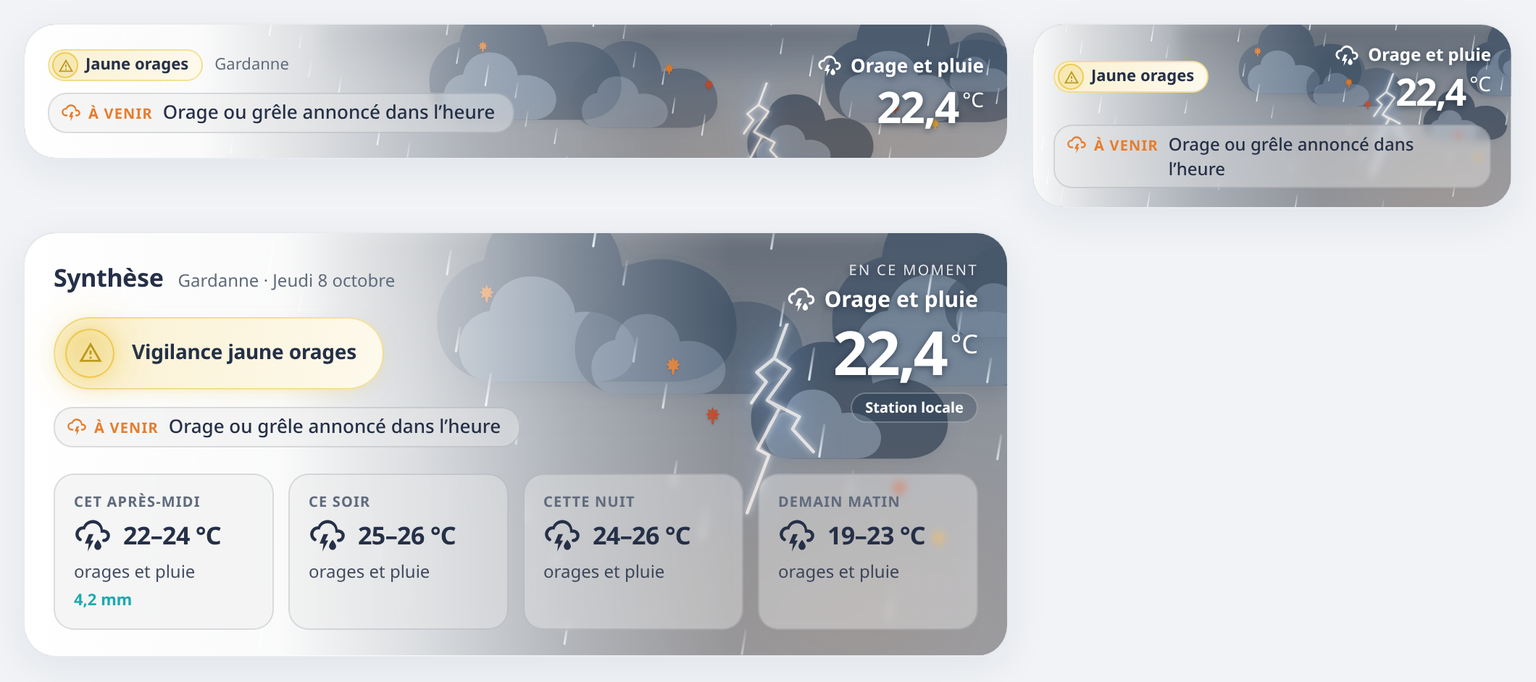
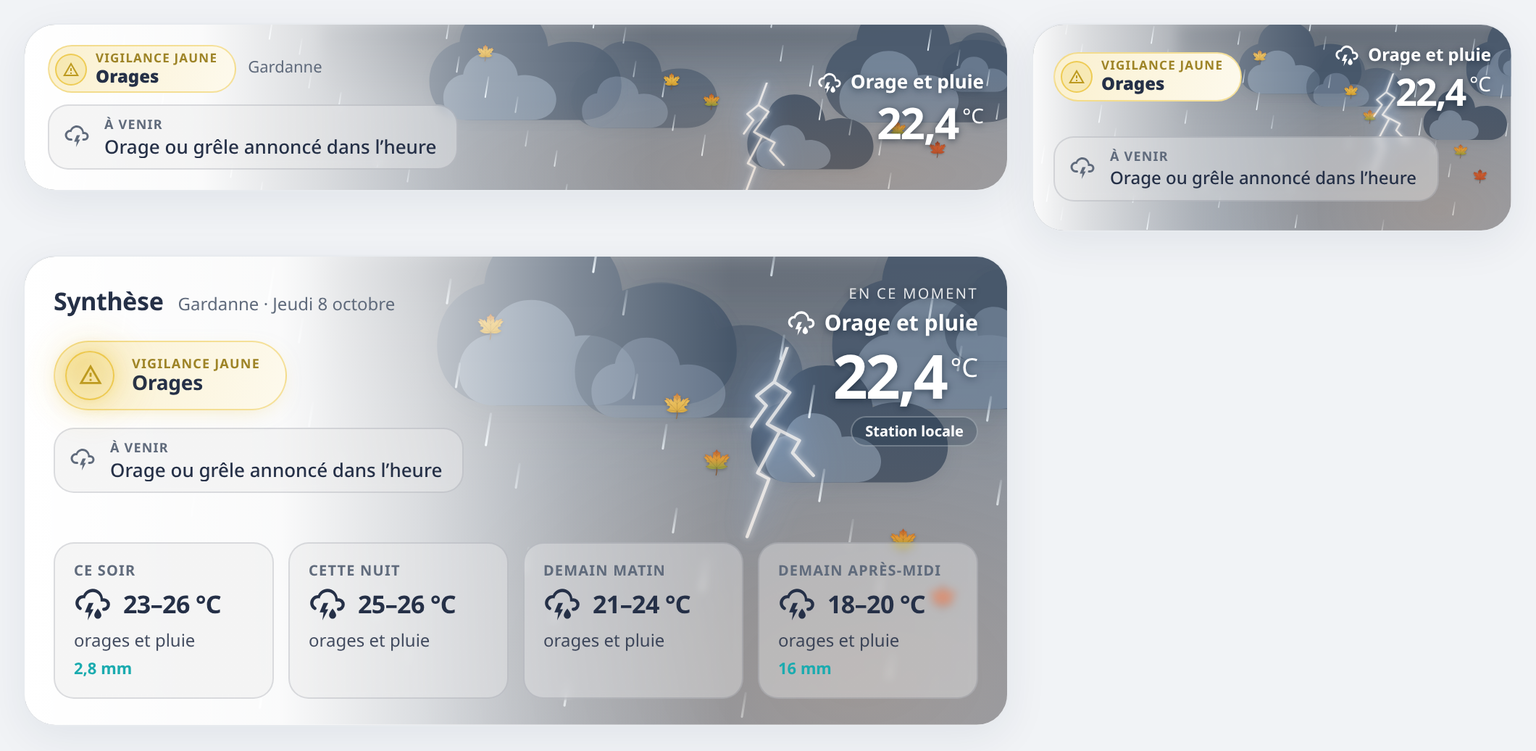
feat(bubbles): label above the sentence in every brief bubble; two-line vigilance; v1.16.0 (not published)
- Brief bubbles (full card, intermediate, tile): small label above, sentence below, icon across both lines; same glass in all formats.
- Vigilance: level in small capitals above, phenomena below (vigilanceParts), in the banner pill and the tile bubble.
- Stable heights: two lines reserved in the half tile and the intermediate, one line on the full-width tile.
- Demo: bubble proposal menu removed; README screenshot refreshed.

diff --git a/src/compact-view.ts b/src/compact-view.ts
@@ -1,6 +1,6 @@
 import { css, html, LitElement, nothing, type TemplateResult } from 'lit';
 import { customElement, property, state } from 'lit/decorators.js';
-import { bulletinTiles } from './banner-layouts';
+import { bulletinTiles, vigilanceText } from './banner-layouts';
 import type { Bulletin } from './bulletin';
 import type { CurrentWeather } from './current-weather';
 import { tickerPoints, vigilanceBadge, type TickerPoint } from './compact-points';
@@ -38,17 +38,19 @@ export class NiakBriefTicker extends LitElement {
   static styles = css`
     :host { display:block; min-width:0; }
     /* Glass bubble, like the four bulletin tiles: icon, group label, sentence. Grey label and icon, as on the full card. */
-    .chip { display:inline-flex; align-items:baseline; gap:7px; max-width:100%; box-sizing:border-box; margin:0; padding:4px 12px 4px 8px; border-radius:13px; /* a pill on one line, a rounded box on two */
-      font-size:13px; line-height:17px; font-weight:500; color:var(--primary-text-color);
+    /* Label above the sentence: the sentence gets the whole width; the icon spans both lines. */
+    .chip { display:inline-grid; grid-template-columns:auto minmax(0,1fr); column-gap:10px; row-gap:1px; align-items:center; max-width:100%; box-sizing:border-box; margin:0;
+      padding:6px 14px 7px 10px; border-radius:14px; font-size:13px; line-height:16px; font-weight:500; color:var(--primary-text-color);
       background:linear-gradient(rgba(128,128,128,.07),rgba(128,128,128,.07)),color-mix(in srgb,var(--card-background-color,#fff) 38%,transparent);
       border:1px solid color-mix(in srgb,var(--primary-text-color,#253047) 13%,transparent); backdrop-filter:blur(3px) saturate(1.15);
       transition:opacity .35s ease, transform .35s ease; }
     .chip.out { opacity:0; transform:translateY(-5px); }
-    /* On the first line, next to the label, even when the sentence wraps. */
-    ha-icon { --mdc-icon-size:14px; display:flex; line-height:0; flex:none; align-self:flex-start; margin:1.5px -2px 0 0; color:var(--secondary-text-color); }
-    .kick { flex:none; font-size:10px; font-weight:700; letter-spacing:.6px; text-transform:uppercase; white-space:nowrap; color:var(--secondary-text-color); }
-    .msg { min-width:0; display:-webkit-box; -webkit-line-clamp:2; -webkit-box-orient:vertical; overflow:hidden; }
+    ha-icon { --mdc-icon-size:18px; display:flex; line-height:0; grid-row:1 / 3; color:var(--secondary-text-color); }
+    .kick { grid-column:2; font-size:9px; line-height:13px; font-weight:700; letter-spacing:.6px; text-transform:uppercase; white-space:nowrap; color:var(--secondary-text-color); }
+    .msg { grid-column:2; min-width:0; display:-webkit-box; -webkit-line-clamp:2; -webkit-box-orient:vertical; overflow:hidden; }
     .sr { position:absolute; width:1px; height:1px; overflow:hidden; clip:rect(0 0 0 0); white-space:nowrap; margin:0; padding:0; }
+    /* Full-width tile: one line, so the tile keeps its height; the half-width tile reserves two. */
+    @container (min-width:481px) { :host(.nw-c-ticker--tile) .msg { -webkit-line-clamp:1; } }
     @container (max-width:360px) {
       .chip { font-size:12px; }
     }
@@ -70,15 +72,15 @@ export function renderCompact(p: CompactParts): TemplateResult {
     <span class="nw-c-cond"><ha-icon icon=${p.now.icon}></ha-icon>${p.now.label}</span>
     ${degrees === undefined ? html`<span class="nw-c-missing">Température indisponible</span>` : html`<span class="nw-c-temp">${degrees}<small>°C</small></span>`}
     ${p.format === 'intermediate' ? html`<span class="nw-c-source">${p.now.temperatureSource}</span>` : nothing}</div>`;
-  const ticker = points.length ? html`<niak-brief-ticker class="nw-c-ticker" .points=${points}></niak-brief-ticker>` : nothing;
+  const ticker = points.length ? html`<niak-brief-ticker class=${`nw-c-ticker nw-c-ticker--${p.format}`} .points=${points}></niak-brief-ticker>` : nothing;
   const level = vigilance?.level ?? 1;
   const body = p.format === 'tile' ? html`
-      <div class="nw-c-meta">${vigilance ? html`<span class=${`nw-c-vig nw-c-vig--level${level}`} title=${vigilance.label}><i><ha-icon icon="mdi:alert-outline"></ha-icon></i><span class="nw-c-vig-text">${vigilance.label}</span></span>` : nothing}
+      <div class="nw-c-meta">${vigilance ? html`<span class=${`nw-c-vig nw-c-vig--level${level}`} title=${vigilance.label}><i><ha-icon icon="mdi:alert-outline"></ha-icon></i>${vigilanceText(vigilance.label)}</span>` : nothing}
         ${p.location ? html`<span class="nw-c-place">${p.location}</span>` : nothing}</div>
       ${ticker}${now}` : html`
       <header class="nw-c-head"><h2>Synthèse</h2><span>${[p.location, p.dateLabel].filter(Boolean).join(' · ')}</span></header>
       <div class="nw-c-main">${vigilance ? html`<div class=${`nw-b-vigil nw-b-vigil--level${level}`} role="status">
-          <span class="nw-b-vigil-mark" aria-hidden="true"><i class="nw-b-vigil-halo"></i><ha-icon icon="mdi:alert-outline"></ha-icon></span><strong>${vigilance.label}</strong></div>` : nothing}
+          <span class="nw-b-vigil-mark" aria-hidden="true"><i class="nw-b-vigil-halo"></i><ha-icon icon="mdi:alert-outline"></ha-icon></span>${vigilanceText(vigilance.label)}</div>` : nothing}
         ${ticker}</div>
       ${now}${p.bulletin ? bulletinTiles(p.bulletin) : nothing}`;
   return html`<div class=${`nw-compact nw-compact--${p.format}${dark ? ' nw-compact--dark-sky' : ''}${points.length ? '' : ' nw-compact--quiet'}`}
@@ -116,7 +118,8 @@ export const compactStyles = css`
   .nw-c-main .nw-b-vigil { margin:0; }
   .nw-compact--intermediate .nw-c-now { grid-area:now; align-self:start; }
   .nw-compact--intermediate .nw-b-tiles { grid-area:tiles; }
-  .nw-compact--intermediate .nw-c-ticker { max-width:100%; }
+  /* Room for a two-line sentence: the day tiles below never jump when the bubble changes. */
+  .nw-compact--intermediate .nw-c-ticker { max-width:100%; min-height:61px; }
   @container (max-width:520px) {
     .nw-compact--intermediate { --k:.62; grid-template-columns:minmax(0,1fr); grid-template-areas:"head" "now" "main" "tiles"; min-height:0; }
     .nw-compact--intermediate .nw-c-now { min-height:118px; justify-content:center; margin-top:6px; }
@@ -137,20 +140,20 @@ export const compactStyles = css`
   .nw-compact--quiet .nw-c-meta { flex-direction:column; align-items:flex-start; align-self:start; gap:6px; }
   .nw-compact--quiet .nw-c-place { order:-1; }
   /* Vigilance: a small bubble in the official colour, plainer than the full card's pill. */
-  .nw-c-vig { --al:232,184,20; flex:0 1 auto; min-width:0; max-width:100%; display:inline-flex; align-items:center; gap:5px; padding:1px 9px 1px 2px; border-radius:999px; font-size:11px; font-weight:650;
+  .nw-c-vig { --al:232,184,20; flex:0 1 auto; min-width:0; max-width:100%; display:inline-flex; align-items:center; gap:6px; padding:3px 12px 3px 4px; border-radius:999px; font-size:12px; font-weight:650;
     background:linear-gradient(100deg,color-mix(in srgb,var(--card-background-color,#fff) 80%,rgb(var(--al)) 20%),color-mix(in srgb,var(--card-background-color,#fff) 92%,rgb(var(--al)) 8%));
     border:1px solid rgba(var(--al),.38); backdrop-filter:blur(8px); }
   .nw-c-vig--level2 { --al:238,124,30; } .nw-c-vig--level3 { --al:214,52,58; }
-  .nw-c-vig i { width:18px; height:18px; border-radius:50%; display:flex; align-items:center; justify-content:center; flex:none; background:rgba(var(--al),.16); border:1.5px solid rgba(var(--al),.6);
+  .nw-c-vig i { width:22px; height:22px; border-radius:50%; display:flex; align-items:center; justify-content:center; flex:none; background:rgba(var(--al),.16); border:1.5px solid rgba(var(--al),.6);
     color:color-mix(in srgb,rgb(var(--al)) 78%,var(--primary-text-color) 22%); box-sizing:border-box; }
-  .nw-c-vig ha-icon { --mdc-icon-size:11px; }
-  .nw-c-vig i { flex:none; } .nw-c-vig-text { min-width:0; white-space:nowrap; overflow:hidden; text-overflow:ellipsis; }
+  .nw-c-vig ha-icon { --mdc-icon-size:12px; }
+  .nw-c-vig i { flex:none; } .nw-c-vig .nw-vigil-text small { font-size:8.5px; line-height:11px; }
   .nw-c-kicker { white-space:nowrap; }
   /* HA's ha-icon is inline: without this it takes a line height and sits high in its circle. */
   .nw-compact ha-icon { display:flex; line-height:0; }
   /* Phones and half width: the brief moves under the temperature, on the full width. */
   @container (max-width:480px) {
-    .nw-compact--tile { --k:.42; --nw-orb-x:calc(100% - 300px); --v1:0%; --v2:12%; --v3:34%; --v4:60%; grid-template-areas:"meta now" "txt txt"; grid-template-rows:auto 46px;
+    .nw-compact--tile { --k:.42; --nw-orb-x:calc(100% - 300px); --v1:0%; --v2:12%; --v3:34%; --v4:60%; grid-template-areas:"meta now" "txt txt"; grid-template-rows:auto 62px;
       column-gap:10px; padding:12px 14px; }
     .nw-compact:not(.nw-compact--quiet) .nw-c-meta { align-self:center; } .nw-compact:not(.nw-compact--quiet) .nw-c-meta:has(.nw-c-vig) .nw-c-place { display:none; }
     .nw-compact--tile .nw-c-ticker { align-self:center; }

diff --git a/src/banner-layouts.ts b/src/banner-layouts.ts
@@ -1,5 +1,6 @@
 import { css, html, nothing, type TemplateResult } from 'lit';
 import type { Bulletin } from './bulletin';
+import { vigilanceParts } from './compact-points';
 import type { BriefSignal, WeatherBrief } from './weather-brief';
 
 export interface BannerParts {
@@ -24,11 +25,17 @@ export function renderBanner(p: BannerParts): TemplateResult {
         : !p.attention && p.headline ? html`<h3 class="nw-b-headline">${p.headline}</h3>` : nothing}
       ${p.attention ? html`<div class=${`nw-b-vigil nw-b-vigil--level${level}`} role="status">
         <span class="nw-b-vigil-mark" aria-hidden="true"><i class="nw-b-vigil-halo"></i><ha-icon icon=${p.icon}></ha-icon></span>
-        <strong>${p.headline}</strong></div>` : nothing}
+        ${vigilanceText(p.headline ?? '')}</div>` : nothing}
       ${chips(p.secondary)}
     </div>${p.current}
     ${p.bulletin ? bulletinTiles(p.bulletin) : nothing}
   </section>`;
+}
+
+/** Level in small capitals above the phenomena, like the brief bubbles' label. Shared with the small formats. */
+export function vigilanceText(text: string): TemplateResult {
+  const parts = vigilanceParts(text);
+  return html`<span class="nw-vigil-text">${parts.level ? html`<small>${parts.level}</small>` : nothing}<strong>${parts.detail}</strong></span>`;
 }
 
 /** The four parts of the day, see-through over the sky. Shared with the intermediate format. */
@@ -47,11 +54,13 @@ export const bannerStyles = css`
   .nw-b-date { font-size:11px; color:var(--secondary-text-color); }
   .nw-b-date::first-letter { text-transform:uppercase; }
   .nw-b-chips { list-style:none; margin:4px 0 0; padding:0; display:flex; flex-wrap:wrap; gap:8px; }
-  /* Label and sentence share a baseline; the icon sits on the first line, even when the sentence wraps. */
-  .nw-b-chip { display:flex; align-items:baseline; gap:7px; padding:5px 11px 5px 8px; border-radius:14px; font-size:12px; line-height:16px;
-    background:color-mix(in srgb,var(--card-background-color,#fff) 78%,transparent); border:1px solid var(--divider-color,rgba(150,150,150,.25)); backdrop-filter:blur(6px); }
-  .nw-b-chip ha-icon { --mdc-icon-size:15px; color:var(--secondary-text-color); flex:none; display:flex; line-height:0; align-self:flex-start; margin-top:.5px; }
-  .nw-b-chip b { flex:none; white-space:nowrap; line-height:16px; font-weight:650; font-size:10px; letter-spacing:.4px; text-transform:uppercase; color:var(--secondary-text-color); }
+  /* Label above the sentence, icon across both lines: the same glass bubble as the tile and the intermediate. */
+  .nw-b-chip { display:grid; grid-template-columns:auto minmax(0,1fr); column-gap:10px; row-gap:1px; align-items:center; padding:6px 14px 7px 10px; border-radius:14px; font-size:12px; line-height:16px;
+    background:linear-gradient(rgba(128,128,128,.07),rgba(128,128,128,.07)),color-mix(in srgb,var(--card-background-color,#fff) 38%,transparent);
+    border:1px solid color-mix(in srgb,var(--primary-text-color,#253047) 13%,transparent); backdrop-filter:blur(3px) saturate(1.15); }
+  .nw-b-chip ha-icon { --mdc-icon-size:18px; color:var(--secondary-text-color); display:flex; line-height:0; grid-row:1 / 3; }
+  .nw-b-chip b { grid-column:2; white-space:nowrap; line-height:13px; font-weight:700; font-size:9px; letter-spacing:.6px; text-transform:uppercase; color:var(--secondary-text-color); }
+  .nw-b-chip span { grid-column:2; min-width:0; }
   .nw-b-chip--official { border-color:rgba(230,125,45,.55); } .nw-b-chip--official ha-icon { color:rgb(230,125,45); }
   .nw-b-tiles { grid-area:tiles; list-style:none; margin:18px 0 0; padding:0; display:grid; grid-template-columns:repeat(4,minmax(0,1fr)); gap:10px; position:relative; z-index:1; }
   .nw-b-tiles li { display:grid; grid-template-columns:auto minmax(0,1fr); align-items:center; align-content:start; column-gap:8px; row-gap:3px; padding:11px 13px; border-radius:14px;
@@ -69,11 +78,14 @@ export const bannerStyles = css`
   .nw-synthesis.nw-banner { grid-template-areas:"head aside" "main aside" "tiles tiles"; grid-template-rows:auto 1fr auto; }
   .nw-b-headline { margin:0; font-size:15px; font-weight:600; letter-spacing:-.1px; line-height:1.4; max-width:56ch; }
   /* Vigilance: a glass pill in the official colour, its icon glowing with the same halo as the alert emblem. */
-  .nw-b-vigil { --al:232,184,20; position:relative; z-index:2; display:flex; align-items:center; gap:12px; margin:2px 0 0; padding:7px 18px 7px 7px; border-radius:999px;
+  .nw-b-vigil { --al:232,184,20; position:relative; z-index:2; display:flex; align-items:center; gap:12px; margin:2px 0 0; padding:6px 18px 6px 7px; border-radius:999px;
     background:linear-gradient(100deg,color-mix(in srgb,var(--card-background-color,#fff) 80%,rgb(var(--al)) 20%),color-mix(in srgb,var(--card-background-color,#fff) 92%,rgb(var(--al)) 8%));
     border:1px solid rgba(var(--al),.38); box-shadow:0 4px 18px -10px rgba(var(--al),.5); backdrop-filter:blur(8px); }
   .nw-b-vigil--level2 { --al:238,124,30; } .nw-b-vigil--level3 { --al:214,52,58; }
   .nw-b-vigil strong { font-size:14px; font-weight:650; letter-spacing:-.1px; }
+  .nw-vigil-text { display:flex; flex-direction:column; min-width:0; line-height:1.2; }
+  .nw-vigil-text small { font-size:9px; font-weight:700; letter-spacing:.6px; text-transform:uppercase; line-height:13px; color:color-mix(in srgb,rgb(var(--al)) 62%,var(--primary-text-color) 38%); }
+  .nw-vigil-text strong { white-space:nowrap; overflow:hidden; text-overflow:ellipsis; }
   .nw-b-vigil-mark { position:relative; flex:0 0 32px; height:32px; display:flex; align-items:center; justify-content:center; border-radius:50%;
     color:color-mix(in srgb,rgb(var(--al)) 78%,var(--primary-text-color) 22%); background:radial-gradient(circle at 35% 25%,rgba(var(--al),.24),rgba(var(--al),.08)); border:1.5px solid rgba(var(--al),.6); animation:nwVigilGlow 5.2s ease-in-out infinite; }
   .nw-b-vigil-mark ha-icon { --mdc-icon-size:17px; position:relative; z-index:1; display:flex; line-height:0; /* HA's ha-icon is inline and would sit low */ }

diff --git a/demo/formats.html b/demo/formats.html
@@ -25,7 +25,6 @@
   <label>Moment<select id="phase"><option value="day">Journée</option><option value="twilight">Crépuscule</option><option value="night">Nuit</option></select></label>
   <label>Thème<select id="theme"><option value="light">Clair</option><option value="dark">Sombre</option></select></label>
   <label>Largeur<select id="width"><option value="tablet">Tablette</option><option value="phone">Téléphone (375 px)</option></select></label>
-  <label>Bulles « Maintenant / À venir »<select id="chips"><option value="A">A · actuelles</option><option value="B">B · étiquette en pastille</option><option value="C">C · bulle en deux parties</option><option value="D">D · étiquette au-dessus</option><option value="E">E · point plein / point creux</option><option value="F">F · cadre avec repère à gauche</option></select></label>
   <label class="toggle"><input type="checkbox" id="motion" checked> Animations</label>
 </div>
 
@@ -72,21 +71,6 @@
       card.hass=hass;
     }
   }
-  // Proposals for the brief bubbles, injected into the real card: full card (.nw-b-chip) and rotating bubble (.chip).
-  const flavours={full:{X:'.nw-b-chip',I:'.nw-b-chip ha-icon',K:'.nw-b-chip b',M:'.nw-b-chip span',F:'.nw-b-chip--future',pv:5},tick:{X:'.chip',I:'.chip ha-icon',K:'.kick',M:'.msg',F:'.chip--future',pv:4}};
-  const variants={A:()=>'',
-    B:({K})=>`${K}{background:color-mix(in srgb,var(--primary-text-color) 13%,transparent);color:var(--primary-text-color);padding:1px 7px;border-radius:999px}`,
-    C:({X,I,K,pv})=>`${X}{padding-left:0;overflow:hidden}${I}{position:relative;z-index:1;margin-left:9px}${K}{align-self:stretch;margin:-${pv}px 2px -${pv}px -29px;padding:${pv}px 10px ${pv}px 29px;display:flex;align-items:center;color:var(--primary-text-color);background:color-mix(in srgb,var(--primary-text-color) 10%,transparent);border-right:1px solid color-mix(in srgb,var(--primary-text-color) 14%,transparent)}`,
-    D:({X,I,K,M})=>`${X}{display:inline-grid;grid-template-columns:auto minmax(0,1fr);column-gap:10px;row-gap:1px;align-items:center;padding:6px 14px 7px 10px;border-radius:14px}${I}{grid-row:1/3;align-self:center;margin:0;--mdc-icon-size:18px}${K}{grid-column:2;line-height:13px;font-size:9px}${M}{grid-column:2;line-height:16px}`,
-    E:({I,K,F})=>`${I}{display:none}${K}{color:var(--primary-text-color)}${K}::before{content:'';display:inline-block;width:7px;height:7px;border-radius:50%;margin-right:6px;vertical-align:1px;background:currentColor}${F} ${K.replace('.nw-b-chip ','')}::before{background:transparent;box-shadow:inset 0 0 0 1.5px currentColor}`,
-    F:({X,K,F})=>`${X}{border-radius:8px;border-left:3px solid color-mix(in srgb,var(--primary-text-color) 55%,transparent)}${F}{border-left-color:color-mix(in srgb,var(--primary-text-color) 22%,transparent)}${K}{color:var(--primary-text-color)}`};
-  const sheets=new WeakMap();
-  function applyChips(){
-    const v=variants[$('chips').value];
-    const put=(root,css)=>{if(!root)return;let sh=sheets.get(root);if(!sh){sh=new CSSStyleSheet();sheets.set(root,sh);root.adoptedStyleSheets=[...root.adoptedStyleSheets,sh];}sh.replaceSync(css);};
-    for(const card of cards){const r=card.shadowRoot;if(!r)continue;put(r,v(flavours.full));r.querySelectorAll('niak-brief-ticker').forEach(t=>put(t.shadowRoot,v(flavours.tick)));}
-  }
-  setInterval(applyChips,500);$('chips').addEventListener('change',applyChips);
   for(const id of ['condition','phase','theme','width','motion'])$(id).addEventListener('change',refresh);
   refresh();
 </script>

diff --git a/test/compact-points.test.ts b/test/compact-points.test.ts
@@ -1,5 +1,5 @@
 import { describe, expect, it } from 'vitest';
-import { tickerPoints, vigilanceBadge } from '../src/compact-points';
+import { tickerPoints, vigilanceBadge, vigilanceParts } from '../src/compact-points';
 import type { BriefSignal, WeatherBrief } from '../src/weather-brief';
 const signal = (key: string, group: BriefSignal['group'], severity: BriefSignal['severity'], text = key): BriefSignal => ({key,group,severity,text,explanation:key,icon:'mdi:weather-sunny'});
 const brief = (signals: BriefSignal[]): WeatherBrief => ({signals,title:'',summary:'',label:'',rgb:'',icon:'',available:true,caveats:[]});
@@ -26,5 +26,11 @@ describe('Tile and intermediate brief', () => {
     const badge=vigilanceBadge(brief([signal('official','official',2,'Vigilance orange · orages, vent violent (jaune)')]));
     expect(badge).toMatchObject({level:2,label:'Vigilance orange · orages, vent violent (jaune)'});
     expect(vigilanceBadge(brief([signal('wind','now',2)]))).toBeUndefined();
+  });
+  it('puts the vigilance level above its phenomena, other texts on one line', () => {
+    expect(vigilanceParts('Vigilance jaune · vent violent')).toEqual({level:'Vigilance jaune',detail:'Vent violent'});
+    expect(vigilanceParts('Vigilance orange · orages, vent violent (jaune)')).toEqual({level:'Vigilance orange',detail:'Orages, vent violent (jaune)'});
+    expect(vigilanceParts('Vigilance jaune')).toEqual({detail:'Vigilance jaune'});
+    expect(vigilanceParts('Vent soutenu, rafales à 43,9 km/h')).toEqual({detail:'Vent soutenu, rafales à 43,9 km/h'});
   });
 });

diff --git a/src/compact-points.ts b/src/compact-points.ts
@@ -27,3 +27,10 @@ export function vigilanceBadge(brief?: WeatherBrief): VigilanceBadge | undefined
   if (!s || s.severity === 0) return undefined;
   return { level: s.severity as 1 | 2 | 3, label: s.text, entity: s.entity };
 }
+
+/** "Vigilance jaune · vent violent" → level above ("Vigilance jaune"), phenomena below ("Vent violent"). Other texts stay on one line. */
+export function vigilanceParts(text: string): { level?: string; detail: string } {
+  const [level, ...rest] = text.split(' · ');
+  const detail = rest.join(' · ');
+  return /^Vigilance (jaune|orange|rouge)$/.test(level) && detail ? { level, detail: detail[0].toUpperCase() + detail.slice(1) } : { detail: text };
+}

diff --git a/README.md b/README.md
@@ -20,7 +20,7 @@ Illustration de présentation avec des données d’exemple ; le rendu réel du 
 
 **En pratique :** l’entité météo seule suffit pour afficher la carte et ses prévisions. Ajoutez une station pour suivre les observations chez vous, et Atmo France si vous souhaitez les informations sur l’air et les pollens. La carte indique la source de chaque valeur et distingue toujours une prévision d’une mesure réelle. [Détails des sources et de leurs limites](docs/sources.md).
 
-**Version stable : v1.15.5.** Trois formats : complète, intermédiaire et tuile pour la page d’accueil. [Nouveautés de la version 1.15.0](docs/release-1.15.0.md) · [correctifs 1.15.1](docs/release-1.15.1.md), [1.15.2](docs/release-1.15.2.md), [1.15.3](docs/release-1.15.3.md), [1.15.4](docs/release-1.15.4.md) et [1.15.5](docs/release-1.15.5.md) · [Installation et mise à jour](docs/installation.md).
+**Version stable : v1.16.0.** Des bulles plus lisibles, la vigilance sous le bulletin et des feuilles de platane. [Nouveautés de la version 1.16.0](docs/release-1.16.0.md) · [Trois formats (1.15.0)](docs/release-1.15.0.md) · [Installation et mise à jour](docs/installation.md).
 
 [![Ouvrir Niak Weather dans HACS](https://my.home-assistant.io/badges/hacs_repository.svg)](https://my.home-assistant.io/redirect/hacs_repository/?owner=Niakman13&repository=niak-weather&category=plugin)
 
@@ -106,7 +106,7 @@ L’historique Home Assistant permet de qualifier l’évolution de la pression 
 
 1. Ouvrez le bouton HACS en haut de cette page. Il ouvre le dépôt, sans installer automatiquement la carte.
 2. Si le dépôt n’est pas trouvé, ajoutez `https://github.com/Niakman13/niak-weather` dans **HACS → ⋮ → Dépôts personnalisés**, catégorie **Tableau de bord / Dashboard**. Il s’agit d’un dépôt personnalisé, pas d’un référencement dans le catalogue HACS par défaut.
-3. Téléchargez **Niak Weather v1.15.5**, puis rechargez le navigateur.
+3. Téléchargez **Niak Weather v1.16.0**, puis rechargez le navigateur.
 4. Dans votre tableau de bord, choisissez **Ajouter une carte → Niak Weather** et sélectionnez votre entité météo.
 5. Ajoutez si souhaité les sources **Station météo locale** et **Atmo France**. Utilisez **Remplir automatiquement** dans chaque catégorie, puis vérifiez les propositions avant d’enregistrer. Sans station, les cadres utilisent les attributs du bulletin disponibles, avec une bulle de source ; la pluie prévue reste distinguée de la pluie mesurée.
 
@@ -131,9 +131,9 @@ daily_rain_entity: sensor.station_daily_rain
 
 Ces identifiants sont des **exemples**, pas des noms imposés. Privilégiez vos entités réelles dans l’éditeur. Le [tutoriel d’installation](docs/installation.md) détaille les ressources, les réglages et le dépannage.
 
-## Mettre à jour vers v1.15.5
+## Mettre à jour vers v1.16.0
 
-Dans **HACS → Niak Weather**, utilisez **Mettre à jour** ou **⋮ → Retélécharger** et sélectionnez **v1.15.5**. Il n’est pas nécessaire d’activer les préversions. Rechargez ensuite le navigateur avec **Ctrl+F5** ; sur mobile, videz le cache frontend si l’ancienne version reste affichée.
+Dans **HACS → Niak Weather**, utilisez **Mettre à jour** ou **⋮ → Retélécharger** et sélectionnez **v1.16.0**. Il n’est pas nécessaire d’activer les préversions. Rechargez ensuite le navigateur avec **Ctrl+F5** ; sur mobile, videz le cache frontend si l’ancienne version reste affichée.
 
 Les mises à jour utilisent la même ressource et conservent vos entités. Les anciens modes sont convertis en réglages de sections : les prévisions d’une ancienne configuration compacte restent masquées sauf choix explicite contraire. Vous pouvez enrichir la configuration progressivement, sans recommencer l’installation. [Notes de version](docs/release-1.4.0.md).
 

diff --git a/docs/installation.md b/docs/installation.md
@@ -35,7 +35,7 @@ jour future apparaîtra dans HACS et se fera avec le même bouton de télécharg
 
 ## Synthèse intelligente
 
-La version stable est **v1.15.5**. Consulte les [notes de mise à jour](release-1.15.0.md) : trois formats, dont une tuile et un format intermédiaire pour la page d’accueil. Les réglages déjà enregistrés sont conservés. Une mise à jour de la carte ne nécessite pas de redémarrer Home Assistant.
+La version stable est **v1.16.0**. Consulte les [notes de mise à jour](release-1.16.0.md) : bulles plus lisibles, vigilance sous le bulletin et feuilles de platane. Les trois formats (complète, intermédiaire, tuile) sont décrits dans les [notes de la 1.15.0](release-1.15.0.md). Les réglages déjà enregistrés sont conservés. Une mise à jour de la carte ne nécessite pas de redémarrer Home Assistant.
 
 ## Ajouter la carte
 
@@ -89,12 +89,12 @@ Puis recharge le navigateur.
 
 Dans ce mode, les mises à jour sont manuelles : remplacer le fichier par celui de la nouvelle release et recharger le navigateur. Ne charge pas en même temps les ressources `/local/` et `/hacsfiles/` de cette carte.
 
-## Installer ou mettre à jour vers v1.15.5 stable
+## Installer ou mettre à jour vers v1.16.0 stable
 
 La version stable réunit les mesures de la station, le ressenti expliqué, les prévisions et bilans, ainsi que les informations facultatives Atmo France. Une mise à jour conserve les entités et réglages enregistrés.
 
 1. Ouvre **Niak Weather** dans HACS et utilise **Mettre à jour** si proposé, sinon **⋮ → Retélécharger / Redownload**.
-2. Sélectionne **v1.15.5** si le choix d’une version est demandé. Il n’est pas nécessaire d’activer les préversions.
+2. Sélectionne **v1.16.0** si le choix d’une version est demandé. Il n’est pas nécessaire d’activer les préversions.
 3. Télécharge, puis recharge le navigateur avec **Ctrl+F5**. Sur l’application mobile, ferme puis rouvre le tableau de bord et, si nécessaire, vide son cache frontend.
 4. Les choix enregistrés sont conservés. Pour ajouter des mesures ou réparer des références introuvables, ouvre la catégorie concernée et clique **Remplir automatiquement** ; vérifie les propositions avant d’enregistrer.
 

diff --git a/docs/release-1.16.0.md b/docs/release-1.16.0.md
@@ -1,0 +1,7 @@
+# Niak Weather v1.16.0 — bulles plus lisibles
+
+- Bulles du brief : l'étiquette « Maintenant » ou « À venir » passe au-dessus du texte.
+- Vigilance : le niveau au-dessus, le phénomène en dessous.
+- La vigilance se place sous le bulletin du jour, juste avant les bulles.
+- Les mêmes bulles dans les trois formats.
+- Nouvelles feuilles d'automne, dessinées comme des feuilles de platane.
